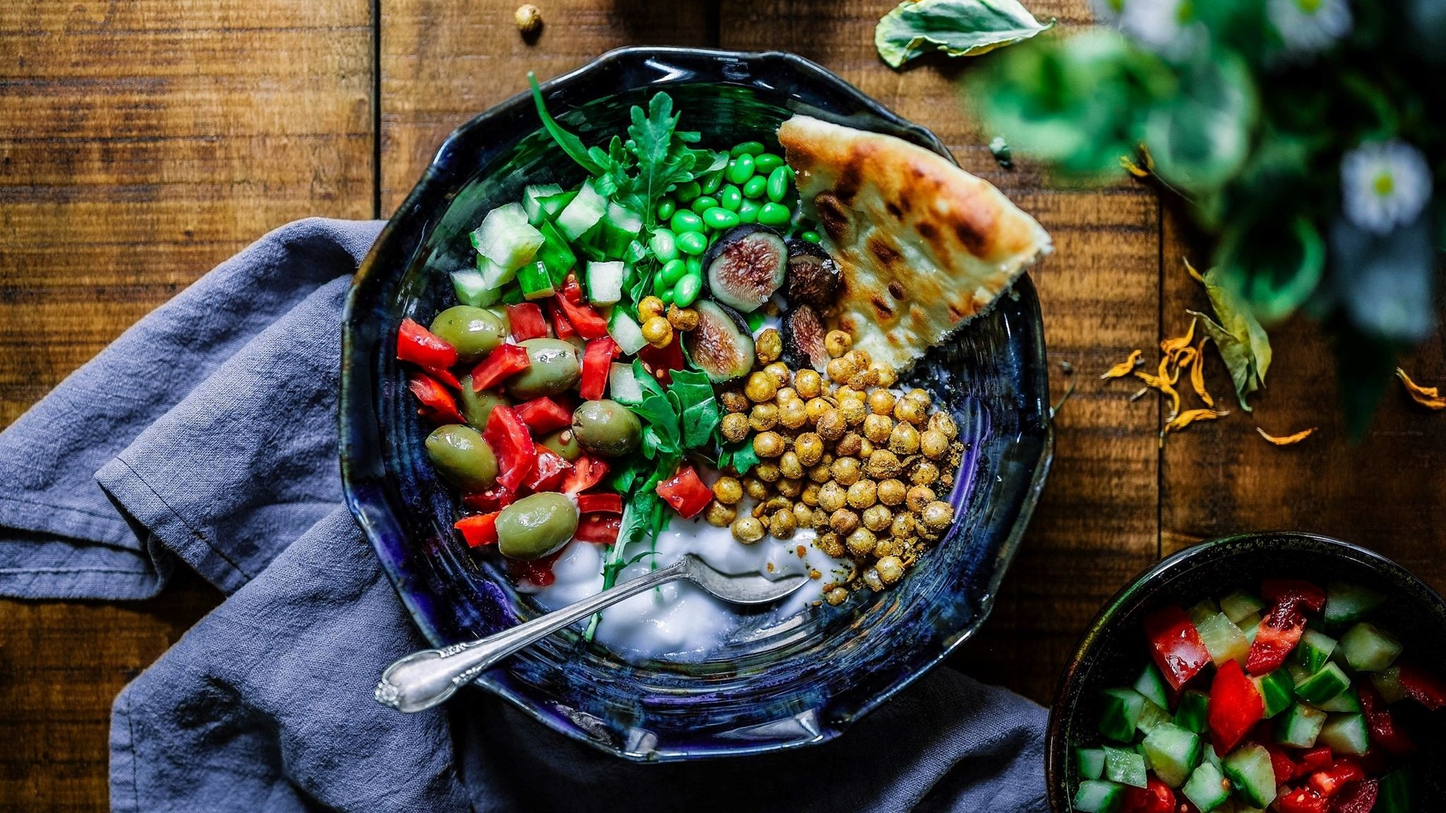
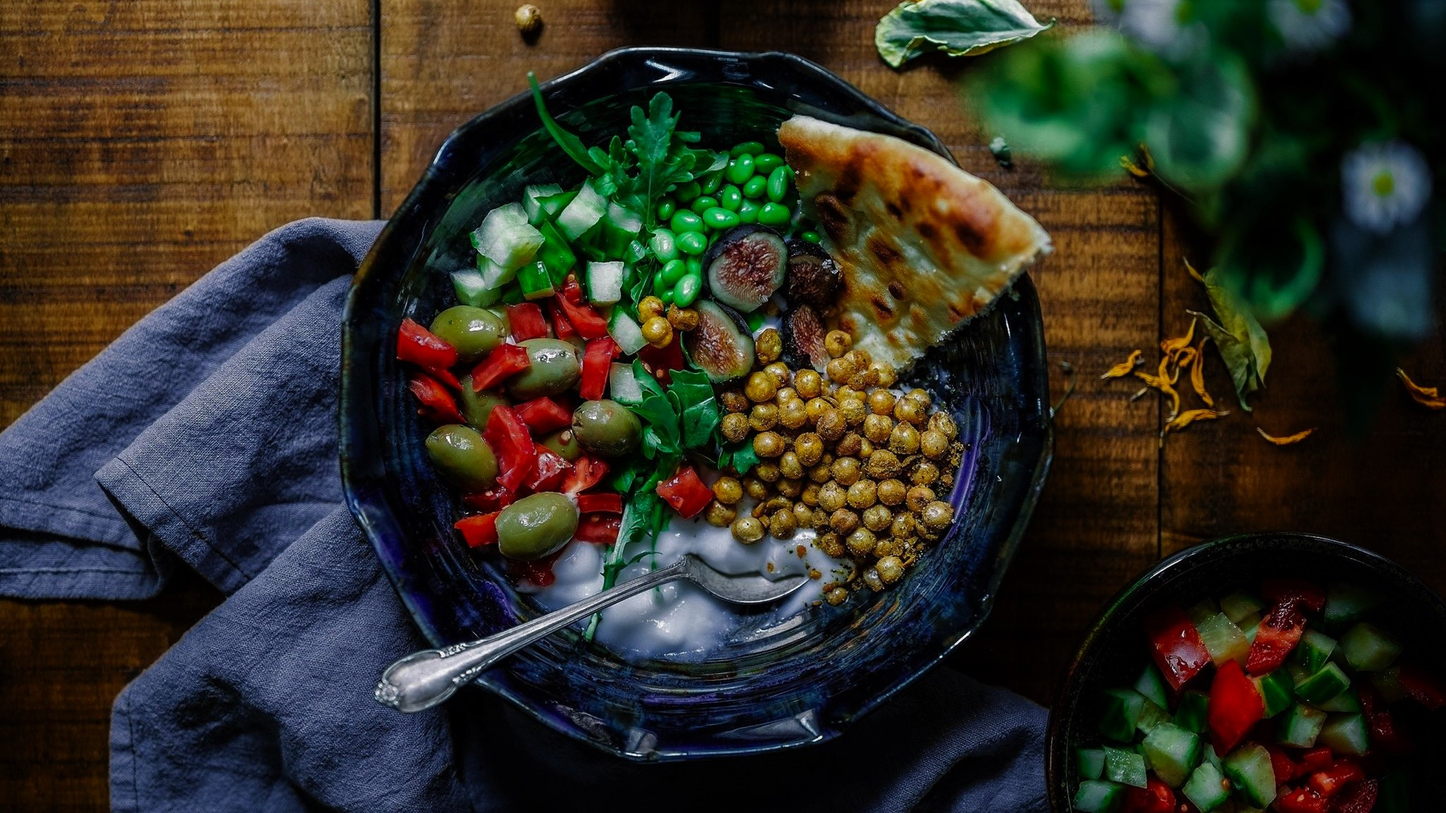
Löst bakgrundsbilden på riktigt

diff --git a/views/home.html b/views/home.html
@@ -13,16 +13,14 @@
     <body>
 
         <div id="container">
-            <div id="background_overlay">
-                <article id="home_page">
-                    <img id="levo_logo" src="../static/img/Levo_image_avenir.png"  alt="LEVO LOGO not found">
-                    <div id="two_options">
-                        <a href="/login/" class="home_links" id="login_link">Log in</a>
-                        <a href="/index/" class="home_links" id="start_link">Get started</a>
-                    </div>
-                </article>
-
-            </div>
+            <article id="home_page">
+                <img id="levo_logo" src="../static/img/Levo_image_avenir.png"  alt="LEVO LOGO not found">
+                <div id="two_options">
+                    <a href="/login/" class="home_links" id="login_link">Log in</a>
+                    <a href="/index/" class="home_links" id="start_link">Get started</a>
+                </div>
+            </article>
         </div>
+        
     </body>
 </html>

diff --git a/static/css/style_home.css b/static/css/style_home.css
@@ -1,29 +1,20 @@
+html {
+    background: url("/static/img/food1.jpg");
+    background-size: 100%;
+    background-position: center;
+    background-repeat: no-repeat;
+    background-attachment:fixed;
+    box-sizing: border-box;
+}
+
 body {
     margin: 0;
     min-height: 100%;
     max-height: 100%; 
 }
 
-#container {
-    background: url("/static/img/food1.jpg");
-    background-size: 100% 100%;
-    height: 754px;
-    background-position: center;
-    background-repeat: no-repeat;
-    background-attachment:fixed;
-    box-sizing: border-box;
-    /*-webkit-background-size: cover;
-    -moz-background-size: cover;
-    -o-background-size: cover;*/
-}
-
-#container > #background_overlay > h1 {
+#container > h1 {
     margin-top: 0;
-}
-
-#background_overlay {
-    background-color: rgba(0,0,0,0.3);
-    height: 754px;
 }
 
 .home_links {
